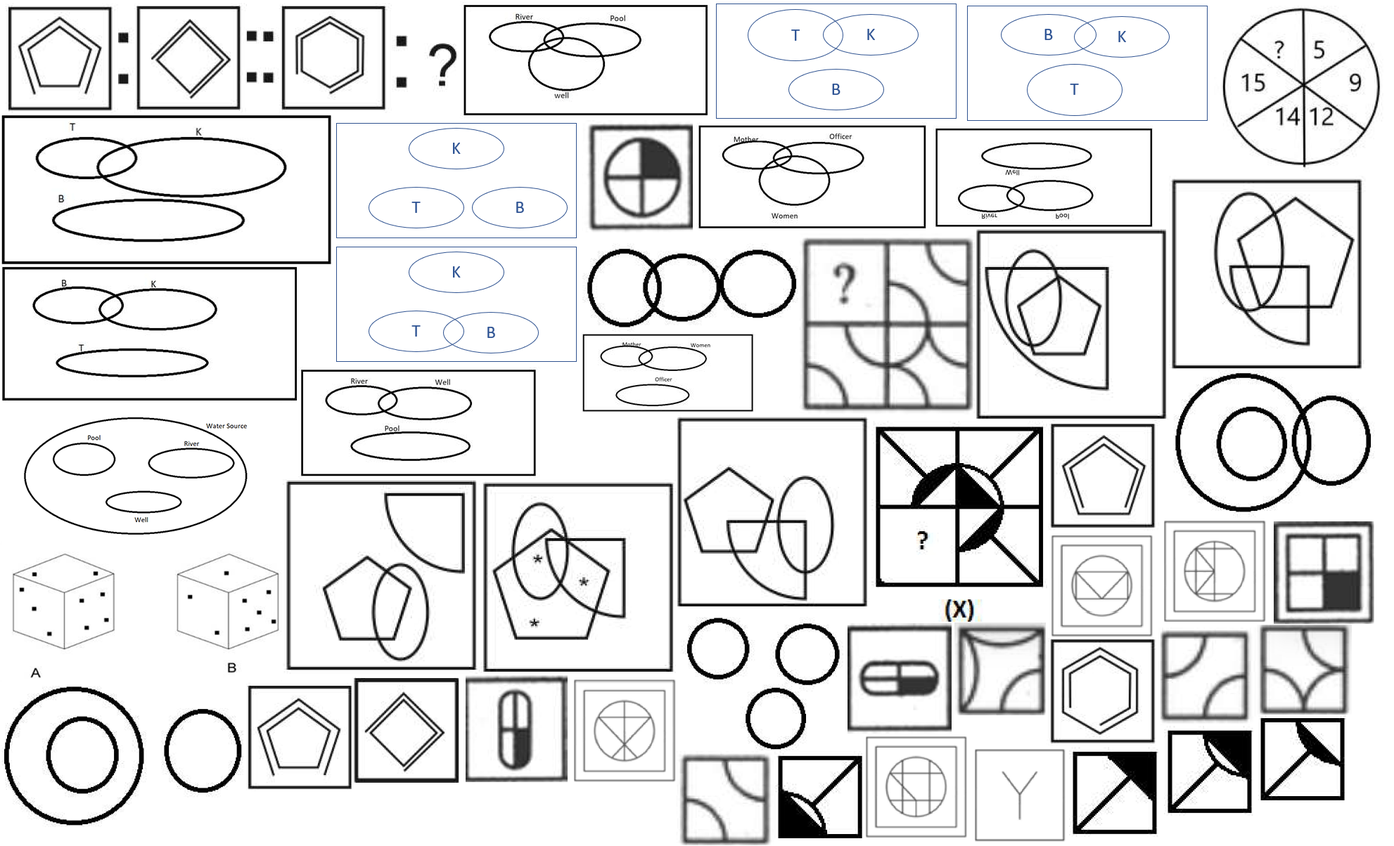
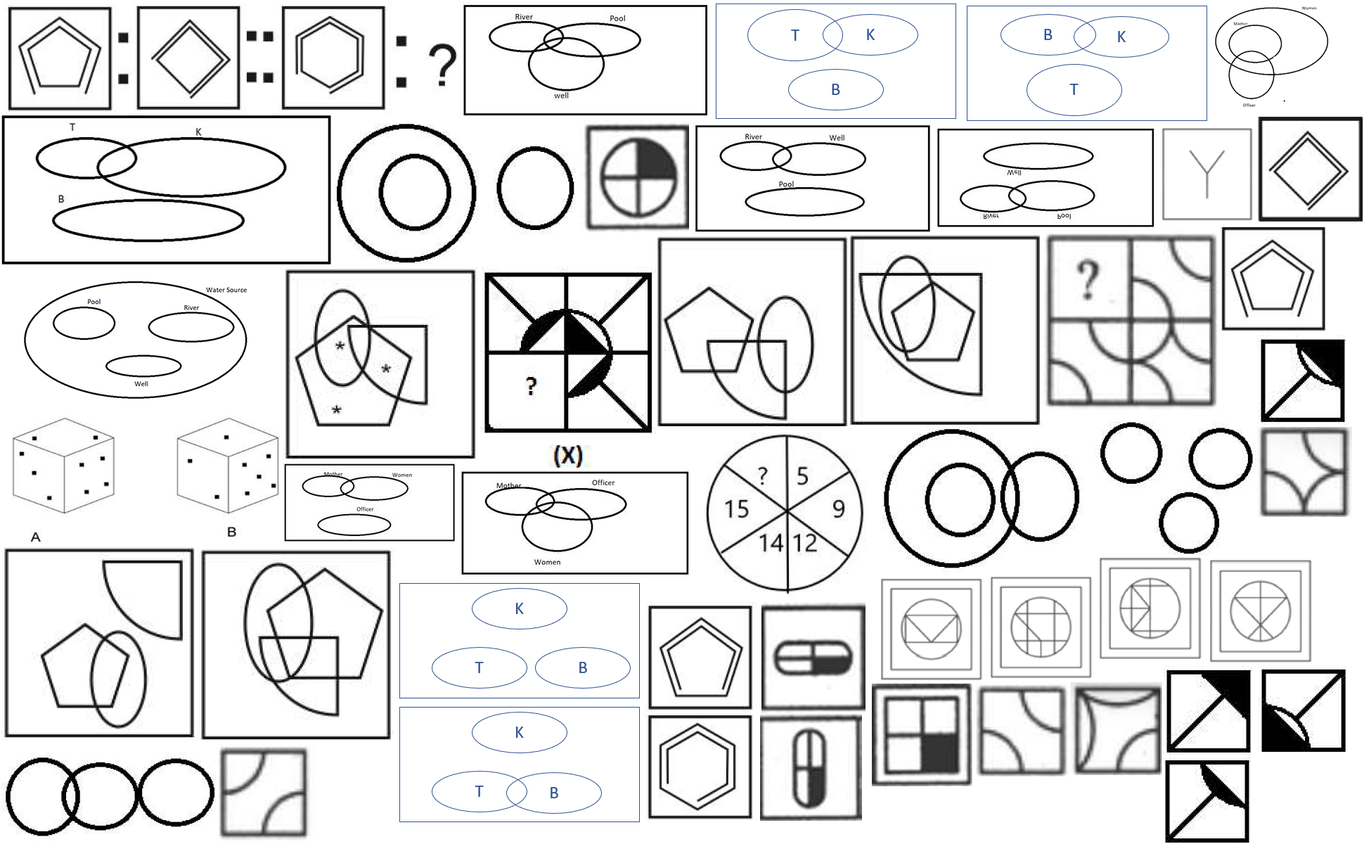
fixed.

diff --git a/img/others/afcat/prev/afcat24_feb_2023.css b/img/others/afcat/prev/afcat24_feb_2023.css
@@ -8,145 +8,145 @@ Responsive: <div class="yourspritesname"></div>
 
 
 .afcat_24_feb_2023_100 {max-width:251px; max-height:258px; }
-.afcat_24_feb_2023_100::after {content: '\00a0';display: inline-block; width:251px; height:258px; background-position: 65.6268053148469% 35.095137420718814%;background-size: 789.6414342629482% 466.6666666666667%;background-image: url(afcat24_feb_2023.png);padding: 0; }
+.afcat_24_feb_2023_100::after {content: '\00a0';display: inline-block; width:251px; height:258px; background-position: 87.80343398460627% 34.6072186836518%;background-size: 772.9083665338645% 465.1162790697674%;background-image: url(afcat24_feb_2023.png);padding: 0; }
 div.afcat_24_feb_2023_100::after {max-width:251px; width:100%;height:0;padding: 0 0 102.78884462151395% 0;}
 .afcat_24_feb_2023_100a {max-width:139px; max-height:143px; }
-.afcat_24_feb_2023_100a::after {content: '\00a0';display: inline-block; width:139px; height:143px; background-position: 89.36516549104721% 83.78887841658812%;background-size: 1425.8992805755395% 841.9580419580419%;background-image: url(afcat24_feb_2023.png);padding: 0; }
+.afcat_24_feb_2023_100a::after {content: '\00a0';display: inline-block; width:139px; height:143px; background-position: 17.157134925041643% 99.71617786187322%;background-size: 1395.68345323741% 839.1608391608391%;background-image: url(afcat24_feb_2023.png);padding: 0; }
 div.afcat_24_feb_2023_100a::after {max-width:139px; width:100%;height:0;padding: 0 0 102.87769784172662% 0;}
 .afcat_24_feb_2023_100b {max-width:138px; max-height:134px; }
-.afcat_24_feb_2023_100b::after {content: '\00a0';display: inline-block; width:138px; height:134px; background-position: 52.16919739696312% 99.90654205607477%;background-size: 1436.231884057971% 898.5074626865671%;background-image: url(afcat24_feb_2023.png);padding: 0; }
+.afcat_24_feb_2023_100b::after {content: '\00a0';display: inline-block; width:138px; height:134px; background-position: 76.80355160932298% 90.99437148217636%;background-size: 1405.7971014492753% 895.5223880597015%;background-image: url(afcat24_feb_2023.png);padding: 0; }
 div.afcat_24_feb_2023_100b::after {max-width:138px; width:100%;height:0;padding: 0 0 97.10144927536231% 0;}
 .afcat_24_feb_2023_100c {max-width:135px; max-height:128px; }
-.afcat_24_feb_2023_100c::after {content: '\00a0';display: inline-block; width:135px; height:128px; background-position: 96.7514889009204% 82.62081784386618%;background-size: 1468.148148148148% 940.625%;background-image: url(afcat24_feb_2023.png);padding: 0; }
+.afcat_24_feb_2023_100c::after {content: '\00a0';display: inline-block; width:135px; height:128px; background-position: 99.05817174515235% 56.62313432835821%;background-size: 1437.037037037037% 937.5%;background-image: url(afcat24_feb_2023.png);padding: 0; }
 div.afcat_24_feb_2023_100c::after {max-width:135px; width:100%;height:0;padding: 0 0 94.81481481481481% 0;}
 .afcat_24_feb_2023_100d {max-width:130px; max-height:132px; }
-.afcat_24_feb_2023_100d::after {content: '\00a0';display: inline-block; width:130px; height:132px; background-position: 73.27213822894169% 82.64925373134328%;background-size: 1524.6153846153845% 912.1212121212121%;background-image: url(afcat24_feb_2023.png);padding: 0; }
+.afcat_24_feb_2023_100d::after {content: '\00a0';display: inline-block; width:130px; height:132px; background-position: 84.14364640883979% 90.82397003745318%;background-size: 1492.3076923076924% 909.0909090909091%;background-image: url(afcat24_feb_2023.png);padding: 0; }
 div.afcat_24_feb_2023_100d::after {max-width:130px; width:100%;height:0;padding: 0 0 101.53846153846153% 0;}
 .afcat_24_feb_2023_80a {max-width:336px; max-height:157px; }
-.afcat_24_feb_2023_80a::after {content: '\00a0';display: inline-block; width:336px; height:157px; background-position: 60.14580801944107% 16.6189111747851%;background-size: 589.8809523809524% 766.8789808917197%;background-image: url(afcat24_feb_2023.png);padding: 0; }
+.afcat_24_feb_2023_80a::after {content: '\00a0';display: inline-block; width:336px; height:157px; background-position: 40.71072319201995% 63.854266538830295%;background-size: 577.3809523809524% 764.3312101910828%;background-image: url(afcat24_feb_2023.png);padding: 0; }
 div.afcat_24_feb_2023_80a::after {max-width:336px; width:100%;height:0;padding: 0 0 46.726190476190474% 0;}
 .afcat_24_feb_2023_80b {max-width:250px; max-height:114px; }
-.afcat_24_feb_2023_80b::after {content: '\00a0';display: inline-block; width:250px; height:114px; background-position: 47.6905311778291% 43.39449541284404%;background-size: 792.8% 1056.140350877193%;background-image: url(afcat24_feb_2023.png);padding: 0; }
+.afcat_24_feb_2023_80b::after {content: '\00a0';display: inline-block; width:250px; height:114px; background-position: 23.78698224852071% 60.49723756906077%;background-size: 776% 1052.6315789473683%;background-image: url(afcat24_feb_2023.png);padding: 0; }
 div.afcat_24_feb_2023_80b::after {max-width:250px; width:100%;height:0;padding: 0 0 45.6% 0;}
 .afcat_24_feb_2023_80c {max-width:472px; max-height:215px; }
-.afcat_24_feb_2023_80c::after {content: '\00a0';display: inline-block; width:472px; height:215px; background-position: 0.06622516556291391% 16.380182002022245%;background-size: 419.91525423728814% 560%;background-image: url(afcat24_feb_2023.png);padding: 0; }
+.afcat_24_feb_2023_80c::after {content: '\00a0';display: inline-block; width:472px; height:215px; background-position: 0.0681198910081744% 16.446700507614214%;background-size: 411.0169491525424% 558.1395348837209%;background-image: url(afcat24_feb_2023.png);padding: 0; }
 div.afcat_24_feb_2023_80c::after {max-width:472px; width:100%;height:0;padding: 0 0 45.55084745762712% 0;}
-.afcat_24_feb_2023_80d {max-width:422px; max-height:193px; }
-.afcat_24_feb_2023_80d::after {content: '\00a0';display: inline-block; width:422px; height:193px; background-position: 0.0641025641025641% 37.388724035608305%;background-size: 469.66824644549763% 623.8341968911917%;background-image: url(afcat24_feb_2023.png);padding: 0; }
-div.afcat_24_feb_2023_80d::after {max-width:422px; width:100%;height:0;padding: 0 0 45.7345971563981% 0;}
+.afcat_24_feb_2023_80d {max-width:204px; max-height:159px; }
+.afcat_24_feb_2023_80d::after {content: '\00a0';display: inline-block; width:204px; height:159px; background-position: 99.30875576036867% 0.09606147934678194%;background-size: 950.9803921568628% 754.7169811320755%;background-image: url(afcat24_feb_2023.png);padding: 0; }
+div.afcat_24_feb_2023_80d::after {max-width:204px; width:100%;height:0;padding: 0 0 77.94117647058823% 0;}
 .afcat_24_feb_2023_82a {max-width:400px; max-height:200px; }
-.afcat_24_feb_2023_82a::after {content: '\00a0';display: inline-block; width:400px; height:200px; background-position: 0.0632111251580278% 56.97211155378486%;background-size: 495.5% 602%;background-image: url(afcat24_feb_2023.png);padding: 0; }
+.afcat_24_feb_2023_82a::after {content: '\00a0';display: inline-block; width:400px; height:200px; background-position: 0.06493506493506493% 37.8%;background-size: 485% 600%;background-image: url(afcat24_feb_2023.png);padding: 0; }
 div.afcat_24_feb_2023_82a::after {max-width:400px; width:100%;height:0;padding: 0 0 50% 0;}
 .afcat_24_feb_2023_82b {max-width:317px; max-height:147px; }
-.afcat_24_feb_2023_82b::after {content: '\00a0';display: inline-block; width:317px; height:147px; background-position: 79.69969969969969% 16.84011352885525%;background-size: 625.2365930599369% 819.047619047619%;background-image: url(afcat24_feb_2023.png);padding: 0; }
+.afcat_24_feb_2023_82b::after {content: '\00a0';display: inline-block; width:317px; height:147px; background-position: 81.94701170671595% 16.904083570750238%;background-size: 611.9873817034701% 816.3265306122449%;background-image: url(afcat24_feb_2023.png);padding: 0; }
 div.afcat_24_feb_2023_82b::after {max-width:317px; width:100%;height:0;padding: 0 0 46.37223974763407% 0;}
 .afcat_24_feb_2023_82c {max-width:344px; max-height:159px; }
-.afcat_24_feb_2023_82c::after {content: '\00a0';display: inline-block; width:344px; height:159px; background-position: 25.885225885225886% 49.952153110047846%;background-size: 576.1627906976744% 757.2327044025158%;background-image: url(afcat24_feb_2023.png);padding: 0; }
+.afcat_24_feb_2023_82c::after {content: '\00a0';display: inline-block; width:344px; height:159px; background-position: 61.716791979949875% 16.714697406340058%;background-size: 563.953488372093% 754.7169811320755%;background-image: url(afcat24_feb_2023.png);padding: 0; }
 div.afcat_24_feb_2023_82c::after {max-width:344px; width:100%;height:0;padding: 0 0 46.22093023255814% 0;}
 .afcat_24_feb_2023_82d {max-width:357px; max-height:168px; }
-.afcat_24_feb_2023_82d::after {content: '\00a0';display: inline-block; width:357px; height:168px; background-position: 40.246153846153845% 0.09652509652509653%;background-size: 555.1820728291317% 716.6666666666666%;background-image: url(afcat24_feb_2023.png);padding: 0; }
+.afcat_24_feb_2023_82d::after {content: '\00a0';display: inline-block; width:357px; height:168px; background-position: 41.31396083385976% 0.09689922480620156%;background-size: 543.4173669467787% 714.2857142857143%;background-image: url(afcat24_feb_2023.png);padding: 0; }
 div.afcat_24_feb_2023_82d::after {max-width:357px; width:100%;height:0;padding: 0 0 47.05882352941177% 0;}
 .afcat_24_feb_2023_89 {max-width:400px; max-height:197px; }
-.afcat_24_feb_2023_89::after {content: '\00a0';display: inline-block; width:400px; height:197px; background-position: 0.0632111251580278% 76.76266137040714%;background-size: 495.5% 611.1675126903554%;background-image: url(afcat24_feb_2023.png);padding: 0; }
+.afcat_24_feb_2023_89::after {content: '\00a0';display: inline-block; width:400px; height:197px; background-position: 0.06493506493506493% 57.726819541375875%;background-size: 485% 609.1370558375635%;background-image: url(afcat24_feb_2023.png);padding: 0; }
 div.afcat_24_feb_2023_89::after {max-width:400px; width:100%;height:0;padding: 0 0 49.25% 0;}
 .afcat_24_feb_2023_91 {max-width:257px; max-height:248px; }
-.afcat_24_feb_2023_91::after {content: '\00a0';display: inline-block; width:257px; height:248px; background-position: 99.94202898550725% 0.10460251046025104%;background-size: 771.2062256809338% 485.48387096774195%;background-image: url(afcat24_feb_2023.png);padding: 0; }
+.afcat_24_feb_2023_91::after {content: '\00a0';display: inline-block; width:257px; height:248px; background-position: 58.8235294117647% 63.760504201680675%;background-size: 754.863813229572% 483.8709677419355%;background-image: url(afcat24_feb_2023.png);padding: 0; }
 div.afcat_24_feb_2023_91::after {max-width:257px; width:100%;height:0;padding: 0 0 96.49805447470817% 0;}
 .afcat_24_feb_2023_92a {max-width:353px; max-height:175px; }
-.afcat_24_feb_2023_92a::after {content: '\00a0';display: inline-block; width:353px; height:175px; background-position: 29.097605893186003% 16.52089407191448%;background-size: 561.4730878186969% 688%;background-image: url(afcat24_feb_2023.png);padding: 0; }
+.afcat_24_feb_2023_92a::after {content: '\00a0';display: inline-block; width:353px; height:175px; background-position: 35.53875236294896% 80.39024390243902%;background-size: 549.5750708215297% 685.7142857142857%;background-image: url(afcat24_feb_2023.png);padding: 0; }
 div.afcat_24_feb_2023_92a::after {max-width:353px; width:100%;height:0;padding: 0 0 49.57507082152974% 0;}
 .afcat_24_feb_2023_92b {max-width:351px; max-height:175px; }
-.afcat_24_feb_2023_92b::after {content: '\00a0';display: inline-block; width:351px; height:175px; background-position: 29.061925199264255% 33.624878522837705%;background-size: 564.6723646723647% 688%;background-image: url(afcat24_feb_2023.png);padding: 0; }
+.afcat_24_feb_2023_92b::after {content: '\00a0';display: inline-block; width:351px; height:175px; background-position: 35.4940213971051% 97.5609756097561%;background-size: 552.7065527065527% 685.7142857142857%;background-image: url(afcat24_feb_2023.png);padding: 0; }
 div.afcat_24_feb_2023_92b::after {max-width:351px; width:100%;height:0;padding: 0 0 49.857549857549856% 0;}
 .afcat_24_feb_2023_92c {max-width:355px; max-height:172px; }
-.afcat_24_feb_2023_92c::after {content: '\00a0';display: inline-block; width:355px; height:172px; background-position: 62.20036877688998% 0.09689922480620156%;background-size: 558.3098591549295% 700%;background-image: url(afcat24_feb_2023.png);padding: 0; }
+.afcat_24_feb_2023_92c::after {content: '\00a0';display: inline-block; width:355px; height:172px; background-position: 63.84858044164038% 0.09727626459143969%;background-size: 546.4788732394367% 697.6744186046511%;background-image: url(afcat24_feb_2023.png);padding: 0; }
 div.afcat_24_feb_2023_92c::after {max-width:355px; width:100%;height:0;padding: 0 0 48.45070422535211% 0;}
 .afcat_24_feb_2023_92d {max-width:355px; max-height:176px; }
-.afcat_24_feb_2023_92d::after {content: '\00a0';display: inline-block; width:355px; height:176px; background-position: 84.08113091579594% 0.09727626459143969%;background-size: 558.3098591549295% 684.0909090909091%;background-image: url(afcat24_feb_2023.png);padding: 0; }
+.afcat_24_feb_2023_92d::after {content: '\00a0';display: inline-block; width:355px; height:176px; background-position: 86.30914826498423% 0.09765625%;background-size: 546.4788732394367% 681.8181818181819%;background-image: url(afcat24_feb_2023.png);padding: 0; }
 div.afcat_24_feb_2023_92d::after {max-width:355px; width:100%;height:0;padding: 0 0 49.57746478873239% 0;}
 .afcat_24_feb_2023_94a {max-width:307px; max-height:140px; }
-.afcat_24_feb_2023_94a::after {content: '\00a0';display: inline-block; width:307px; height:140px; background-position: 49.43283582089552% 31.203007518796994%;background-size: 645.6026058631921% 860%;background-image: url(afcat24_feb_2023.png);padding: 0; }
+.afcat_24_feb_2023_94a::after {content: '\00a0';display: inline-block; width:307px; height:140px; background-position: 0.0612369871402327% 99.52830188679245%;background-size: 631.9218241042345% 857.1428571428571%;background-image: url(afcat24_feb_2023.png);padding: 0; }
 div.afcat_24_feb_2023_94a::after {max-width:307px; width:100%;height:0;padding: 0 0 45.60260586319218% 0;}
 .afcat_24_feb_2023_94b {max-width:301px; max-height:210px; }
-.afcat_24_feb_2023_94b::after {content: '\00a0';display: inline-block; width:301px; height:210px; background-position: 98.86972040452112% 53.01810865191147%;background-size: 658.4717607973422% 573.3333333333334%;background-image: url(afcat24_feb_2023.png);padding: 0; }
+.afcat_24_feb_2023_94b::after {content: '\00a0';display: inline-block; width:301px; height:210px; background-position: 76.14399023794996% 61.21212121212121%;background-size: 644.5182724252492% 571.4285714285714%;background-image: url(afcat24_feb_2023.png);padding: 0; }
 div.afcat_24_feb_2023_94b::after {max-width:301px; width:100%;height:0;padding: 0 0 69.76744186046511% 0;}
 .afcat_24_feb_2023_94c {max-width:348px; max-height:207px; }
-.afcat_24_feb_2023_94c::after {content: '\00a0';display: inline-block; width:348px; height:207px; background-position: 0.06119951040391677% 97.39217652958877%;background-size: 569.5402298850574% 581.6425120772947%;background-image: url(afcat24_feb_2023.png);padding: 0; }
+.afcat_24_feb_2023_94c::after {content: '\00a0';display: inline-block; width:348px; height:207px; background-position: 29.77386934673367% 17.119838872104733%;background-size: 557.471264367816% 579.7101449275362%;background-image: url(afcat24_feb_2023.png);padding: 0; }
 div.afcat_24_feb_2023_94c::after {max-width:348px; width:100%;height:0;padding: 0 0 59.48275862068966% 0;}
 .afcat_24_feb_2023_94d {max-width:237px; max-height:204px; }
-.afcat_24_feb_2023_94d::after {content: '\00a0';display: inline-block; width:237px; height:204px; background-position: 55.12893982808023% 86.4%;background-size: 836.2869198312236% 590.1960784313726%;background-image: url(afcat24_feb_2023.png);padding: 0; }
+.afcat_24_feb_2023_94d::after {content: '\00a0';display: inline-block; width:237px; height:204px; background-position: 91.015854374633% 58.734939759036145%;background-size: 818.5654008438819% 588.2352941176471%;background-image: url(afcat24_feb_2023.png);padding: 0; }
 div.afcat_24_feb_2023_94d::after {max-width:237px; width:100%;height:0;padding: 0 0 86.07594936708861% 0;}
 .afcat_24_feb_2023_95 {max-width:278px; max-height:278px; }
-.afcat_24_feb_2023_95::after {content: '\00a0';display: inline-block; width:278px; height:278px; background-position: 40.082159624413144% 73.65010799136068%;background-size: 712.9496402877697% 433.0935251798561%;background-image: url(afcat24_feb_2023.png);padding: 0; }
+.afcat_24_feb_2023_95::after {content: '\00a0';display: inline-block; width:278px; height:278px; background-position: 24.187725631768952% 40.99783080260303%;background-size: 697.841726618705% 431.6546762589928%;background-image: url(afcat24_feb_2023.png);padding: 0; }
 div.afcat_24_feb_2023_95::after {max-width:278px; width:100%;height:0;padding: 0 0 100% 0;}
 .afcat_24_feb_2023_95a {max-width:273px; max-height:271px; }
-.afcat_24_feb_2023_95a::after {content: '\00a0';display: inline-block; width:273px; height:271px; background-position: 81.21708601521358% 34.941050375133976%;background-size: 726.007326007326% 444.28044280442805%;background-image: url(afcat24_feb_2023.png);padding: 0; }
+.afcat_24_feb_2023_95a::after {content: '\00a0';display: inline-block; width:273px; height:271px; background-position: 72.5254949010198% 35.952637244348765%;background-size: 710.6227106227107% 442.8044280442804%;background-image: url(afcat24_feb_2023.png);padding: 0; }
 div.afcat_24_feb_2023_95a::after {max-width:273px; width:100%;height:0;padding: 0 0 99.26739926739927% 0;}
 .afcat_24_feb_2023_95b {max-width:280px; max-height:277px; }
-.afcat_24_feb_2023_95b::after {content: '\00a0';display: inline-block; width:280px; height:277px; background-position: 23.6192714453584% 73.57065803667746%;background-size: 707.8571428571429% 434.6570397111913%;background-image: url(afcat24_feb_2023.png);padding: 0; }
+.afcat_24_feb_2023_95b::after {content: '\00a0';display: inline-block; width:280px; height:277px; background-position: 0.060240963855421686% 84.18201516793066%;background-size: 692.8571428571429% 433.2129963898917%;background-image: url(afcat24_feb_2023.png);padding: 0; }
 div.afcat_24_feb_2023_95b::after {max-width:280px; width:100%;height:0;padding: 0 0 98.92857142857143% 0;}
 .afcat_24_feb_2023_95c {max-width:281px; max-height:276px; }
-.afcat_24_feb_2023_95c::after {content: '\00a0';display: inline-block; width:281px; height:276px; background-position: 97.70723104056438% 26.939655172413794%;background-size: 705.3380782918149% 436.231884057971%;background-image: url(afcat24_feb_2023.png);padding: 0; }
+.afcat_24_feb_2023_95c::after {content: '\00a0';display: inline-block; width:281px; height:276px; background-position: 16.998191681735985% 84.0909090909091%;background-size: 690.3914590747331% 434.7826086956522%;background-image: url(afcat24_feb_2023.png);padding: 0; }
 div.afcat_24_feb_2023_95c::after {max-width:281px; width:100%;height:0;padding: 0 0 98.22064056939502% 0;}
 .afcat_24_feb_2023_95d {max-width:274px; max-height:272px; }
-.afcat_24_feb_2023_95d::after {content: '\00a0';display: inline-block; width:274px; height:272px; background-position: 56.323185011709604% 63.412017167381975%;background-size: 723.3576642335767% 442.6470588235294%;background-image: url(afcat24_feb_2023.png);padding: 0; }
+.afcat_24_feb_2023_95d::after {content: '\00a0';display: inline-block; width:274px; height:272px; background-position: 56.062424969987994% 35.991379310344826%;background-size: 708.029197080292% 441.1764705882353%;background-image: url(afcat24_feb_2023.png);padding: 0; }
 div.afcat_24_feb_2023_95d::after {max-width:274px; width:100%;height:0;padding: 0 0 99.27007299270073% 0;}
 .afcat_24_feb_2023_96 {max-width:138px; max-height:139px; }
-.afcat_24_feb_2023_96::after {content: '\00a0';display: inline-block; width:138px; height:139px; background-position: 74.89154013015184% 99.71830985915493%;background-size: 1436.231884057971% 866.1870503597122%;background-image: url(afcat24_feb_2023.png);padding: 0; }
+.afcat_24_feb_2023_96::after {content: '\00a0';display: inline-block; width:138px; height:139px; background-position: 91.45394006659268% 16.776625824693685%;background-size: 1405.7971014492753% 863.3093525179856%;background-image: url(afcat24_feb_2023.png);padding: 0; }
 div.afcat_24_feb_2023_96::after {max-width:138px; width:100%;height:0;padding: 0 0 100.72463768115942% 0;}
 .afcat_24_feb_2023_96a {max-width:153px; max-height:152px; }
-.afcat_24_feb_2023_96a::after {content: '\00a0';display: inline-block; width:153px; height:152px; background-position: 67.08583925642428% 99.33460076045627%;background-size: 1295.424836601307% 792.1052631578947%;background-image: url(afcat24_feb_2023.png);padding: 0; }
+.afcat_24_feb_2023_96a::after {content: '\00a0';display: inline-block; width:153px; height:152px; background-position: 78.62339115836598% 77.95801526717557%;background-size: 1267.9738562091504% 789.4736842105264%;background-image: url(afcat24_feb_2023.png);padding: 0; }
 div.afcat_24_feb_2023_96a::after {max-width:153px; width:100%;height:0;padding: 0 0 99.34640522875817% 0;}
 .afcat_24_feb_2023_96b {max-width:156px; max-height:150px; }
-.afcat_24_feb_2023_96b::after {content: '\00a0';display: inline-block; width:156px; height:150px; background-position: 81.59912376779846% 71.72675521821633%;background-size: 1270.5128205128206% 802.6666666666666%;background-image: url(afcat24_feb_2023.png);padding: 0; }
+.afcat_24_feb_2023_96b::after {content: '\00a0';display: inline-block; width:156px; height:150px; background-position: 69.95515695067265% 77.80952380952381%;background-size: 1243.5897435897436% 800%;background-image: url(afcat24_feb_2023.png);padding: 0; }
 div.afcat_24_feb_2023_96b::after {max-width:156px; width:100%;height:0;padding: 0 0 96.15384615384616% 0;}
 .afcat_24_feb_2023_96c {max-width:155px; max-height:150px; }
-.afcat_24_feb_2023_96c::after {content: '\00a0';display: inline-block; width:155px; height:150px; background-position: 90.311986863711% 70.01897533206831%;background-size: 1278.7096774193549% 802.6666666666666%;background-image: url(afcat24_feb_2023.png);padding: 0; }
+.afcat_24_feb_2023_96c::after {content: '\00a0';display: inline-block; width:155px; height:150px; background-position: 87.3389355742297% 75.23809523809524%;background-size: 1251.6129032258063% 800%;background-image: url(afcat24_feb_2023.png);padding: 0; }
 div.afcat_24_feb_2023_96c::after {max-width:155px; width:100%;height:0;padding: 0 0 96.7741935483871% 0;}
 .afcat_24_feb_2023_96d {max-width:151px; max-height:154px; }
-.afcat_24_feb_2023_96d::after {content: '\00a0';display: inline-block; width:151px; height:154px; background-position: 44.238121245221194% 91.52380952380952%;background-size: 1312.5827814569536% 781.8181818181819%;background-image: url(afcat24_feb_2023.png);padding: 0; }
+.afcat_24_feb_2023_96d::after {content: '\00a0';display: inline-block; width:151px; height:154px; background-position: 95.86361095584125% 75.52581261950287%;background-size: 1284.76821192053% 779.2207792207793%;background-image: url(afcat24_feb_2023.png);padding: 0; }
 div.afcat_24_feb_2023_96d::after {max-width:151px; width:100%;height:0;padding: 0 0 101.98675496688742% 0;}
 .afcat_24_feb_2023_97 {max-width:652px; max-height:160px; }
-.afcat_24_feb_2023_97::after {content: '\00a0';display: inline-block; width:652px; height:160px; background-position: 0.07518796992481203% 0.09578544061302682%;background-size: 303.9877300613497% 752.5%;background-image: url(afcat24_feb_2023.png);padding: 0; }
+.afcat_24_feb_2023_97::after {content: '\00a0';display: inline-block; width:652px; height:160px; background-position: 0.07763975155279502% 0.09615384615384616%;background-size: 297.5460122699387% 750%;background-image: url(afcat24_feb_2023.png);padding: 0; }
 div.afcat_24_feb_2023_97::after {max-width:652px; width:100%;height:0;padding: 0 0 24.539877300613497% 0;}
 .afcat_24_feb_2023_97a {max-width:159px; max-height:157px; }
-.afcat_24_feb_2023_97a::after {content: '\00a0';display: inline-block; width:159px; height:157px; background-position: 81.73340647284695% 57.11556829035339%;background-size: 1246.5408805031448% 766.8789808917197%;background-image: url(afcat24_feb_2023.png);padding: 0; }
+.afcat_24_feb_2023_97a::after {content: '\00a0';display: inline-block; width:159px; height:157px; background-position: 51.54407636159461% 82.07094918504315%;background-size: 1220.125786163522% 764.3312101910828%;background-image: url(afcat24_feb_2023.png);padding: 0; }
 div.afcat_24_feb_2023_97a::after {max-width:159px; width:100%;height:0;padding: 0 0 98.74213836477988% 0;}
 .afcat_24_feb_2023_97b {max-width:152px; max-height:156px; }
-.afcat_24_feb_2023_97b::after {content: '\00a0';display: inline-block; width:152px; height:156px; background-position: 27.37704918032787% 91.6030534351145%;background-size: 1303.9473684210527% 771.7948717948718%;background-image: url(afcat24_feb_2023.png);padding: 0; }
+.afcat_24_feb_2023_97b::after {content: '\00a0';display: inline-block; width:152px; height:156px; background-position: 99.9440715883669% 15.421455938697317%;background-size: 1276.3157894736842% 769.2307692307693%;background-image: url(afcat24_feb_2023.png);padding: 0; }
 div.afcat_24_feb_2023_97b::after {max-width:152px; width:100%;height:0;padding: 0 0 102.63157894736842% 0;}
 .afcat_24_feb_2023_97c {max-width:156px; max-height:154px; }
-.afcat_24_feb_2023_97c::after {content: '\00a0';display: inline-block; width:156px; height:154px; background-position: 81.4895947426068% 86.38095238095238%;background-size: 1270.5128205128206% 781.8181818181819%;background-image: url(afcat24_feb_2023.png);padding: 0; }
+.afcat_24_feb_2023_97c::after {content: '\00a0';display: inline-block; width:156px; height:154px; background-position: 51.34529147982063% 96.94072657743786%;background-size: 1243.5897435897436% 779.2207792207793%;background-image: url(afcat24_feb_2023.png);padding: 0; }
 div.afcat_24_feb_2023_97c::after {max-width:156px; width:100%;height:0;padding: 0 0 98.71794871794872% 0;}
 .afcat_24_feb_2023_97d {max-width:150px; max-height:157px; }
-.afcat_24_feb_2023_97d::after {content: '\00a0';display: inline-block; width:150px; height:157px; background-position: 19.104803493449783% 92.74116523400191%;background-size: 1321.3333333333333% 766.8789808917197%;background-image: url(afcat24_feb_2023.png);padding: 0; }
+.afcat_24_feb_2023_97d::after {content: '\00a0';display: inline-block; width:150px; height:157px; background-position: 96.92737430167598% 30.488974113135185%;background-size: 1293.3333333333333% 764.3312101910828%;background-image: url(afcat24_feb_2023.png);padding: 0; }
 div.afcat_24_feb_2023_97d::after {max-width:150px; width:100%;height:0;padding: 0 0 104.66666666666667% 0;}
 .afcat_24_feb_2023_98a {max-width:161px; max-height:161px; }
-.afcat_24_feb_2023_98a::after {content: '\00a0';display: inline-block; width:161px; height:161px; background-position: 45.46952224052718% 16.299137104506233%;background-size: 1231.055900621118% 747.8260869565217%;background-image: url(afcat24_feb_2023.png);padding: 0; }
+.afcat_24_feb_2023_98a::after {content: '\00a0';display: inline-block; width:161px; height:161px; background-position: 46.2619449128724% 16.361886429258902%;background-size: 1204.9689440993789% 745.3416149068323%;background-image: url(afcat24_feb_2023.png);padding: 0; }
 div.afcat_24_feb_2023_98a::after {max-width:161px; width:100%;height:0;padding: 0 0 100% 0;}
 .afcat_24_feb_2023_98b {max-width:156px; max-height:158px; }
-.afcat_24_feb_2023_98b::after {content: '\00a0';display: inline-block; width:156px; height:158px; background-position: 65.71741511500548% 84.70363288718929%;background-size: 1270.5128205128206% 762.0253164556962%;background-image: url(afcat24_feb_2023.png);padding: 0; }
+.afcat_24_feb_2023_98b::after {content: '\00a0';display: inline-block; width:156px; height:158px; background-position: 60.426008968609864% 82.14971209213051%;background-size: 1243.5897435897436% 759.493670886076%;background-image: url(afcat24_feb_2023.png);padding: 0; }
 div.afcat_24_feb_2023_98b::after {max-width:156px; width:100%;height:0;padding: 0 0 101.28205128205128% 0;}
 .afcat_24_feb_2023_98c {max-width:155px; max-height:152px; }
-.afcat_24_feb_2023_98c::after {content: '\00a0';display: inline-block; width:155px; height:152px; background-position: 35.79638752052545% 91.34980988593156%;background-size: 1278.7096774193549% 792.1052631578947%;background-image: url(afcat24_feb_2023.png);padding: 0; }
+.afcat_24_feb_2023_98c::after {content: '\00a0';display: inline-block; width:155px; height:152px; background-position: 60.11204481792717% 96.85114503816794%;background-size: 1251.6129032258063% 789.4736842105264%;background-image: url(afcat24_feb_2023.png);padding: 0; }
 div.afcat_24_feb_2023_98c::after {max-width:155px; width:100%;height:0;padding: 0 0 98.06451612903226% 0;}
 .afcat_24_feb_2023_98d {max-width:148px; max-height:150px; }
-.afcat_24_feb_2023_98d::after {content: '\00a0';display: inline-block; width:148px; height:150px; background-position: 98.47328244274809% 70.01897533206831%;background-size: 1339.1891891891892% 802.6666666666666%;background-image: url(afcat24_feb_2023.png);padding: 0; }
+.afcat_24_feb_2023_98d::after {content: '\00a0';display: inline-block; width:148px; height:150px; background-position: 68.91741071428571% 92.19047619047619%;background-size: 1310.8108108108108% 800%;background-image: url(afcat24_feb_2023.png);padding: 0; }
 div.afcat_24_feb_2023_98d::after {max-width:148px; width:100%;height:0;padding: 0 0 101.35135135135135% 0;}
 .afcat_24_feb_2023_99 {max-width:252px; max-height:287px; }
-.afcat_24_feb_2023_99::after {content: '\00a0';display: inline-block; width:252px; height:287px; background-position: 71.5028901734104% 65.21264994547437%;background-size: 786.5079365079365% 419.5121951219512%;background-image: url(afcat24_feb_2023.png);padding: 0; }
+.afcat_24_feb_2023_99::after {content: '\00a0';display: inline-block; width:252px; height:287px; background-position: 40.343601895734594% 41.40197152245345%;background-size: 769.8412698412699% 418.1184668989547%;background-image: url(afcat24_feb_2023.png);padding: 0; }
 div.afcat_24_feb_2023_99::after {max-width:252px; width:100%;height:0;padding: 0 0 113.88888888888889% 0;}
 .afcat_24_feb_2023_99a {max-width:134px; max-height:131px; }
-.afcat_24_feb_2023_99a::after {content: '\00a0';display: inline-block; width:134px; height:131px; background-position: 82.25108225108225% 98.97483690587138%;background-size: 1479.1044776119404% 919.0839694656488%;background-image: url(afcat24_feb_2023.png);padding: 0; }
+.afcat_24_feb_2023_99a::after {content: '\00a0';display: inline-block; width:134px; height:131px; background-position: 91.58361018826135% 88.40037418147801%;background-size: 1447.7611940298507% 916.0305343511451%;background-image: url(afcat24_feb_2023.png);padding: 0; }
 div.afcat_24_feb_2023_99a::after {max-width:134px; width:100%;height:0;padding: 0 0 97.76119402985074% 0;}
 .afcat_24_feb_2023_99b {max-width:133px; max-height:130px; }
-.afcat_24_feb_2023_99b::after {content: '\00a0';display: inline-block; width:133px; height:130px; background-position: 89.50784207679827% 96.18249534450652%;background-size: 1490.2255639097743% 926.1538461538462%;background-image: url(afcat24_feb_2023.png);padding: 0; }
+.afcat_24_feb_2023_99b::after {content: '\00a0';display: inline-block; width:133px; height:130px; background-position: 98.94853348090759% 44.48598130841121%;background-size: 1458.6466165413533% 923.0769230769231%;background-image: url(afcat24_feb_2023.png);padding: 0; }
 div.afcat_24_feb_2023_99b::after {max-width:133px; width:100%;height:0;padding: 0 0 97.74436090225564% 0;}
 .afcat_24_feb_2023_99c {max-width:127px; max-height:122px; }
-.afcat_24_feb_2023_99c::after {content: '\00a0';display: inline-block; width:127px; height:122px; background-position: 96.44204851752022% 94.08502772643253%;background-size: 1560.6299212598426% 986.8852459016393%;background-image: url(afcat24_feb_2023.png);padding: 0; }
+.afcat_24_feb_2023_99c::after {content: '\00a0';display: inline-block; width:127px; height:122px; background-position: 91.2300055157198% 99.90723562152134%;background-size: 1527.5590551181103% 983.6065573770492%;background-image: url(afcat24_feb_2023.png);padding: 0; }
 div.afcat_24_feb_2023_99c::after {max-width:127px; width:100%;height:0;padding: 0 0 96.06299212598425% 0;}
 .afcat_24_feb_2023_99d {max-width:125px; max-height:132px; }
-.afcat_24_feb_2023_99d::after {content: '\00a0';display: inline-block; width:125px; height:132px; background-position: 59.289176090468494% 99.72014925373135%;background-size: 1585.6% 912.1212121212121%;background-image: url(afcat24_feb_2023.png);padding: 0; }
+.afcat_24_feb_2023_99d::after {content: '\00a0';display: inline-block; width:125px; height:132px; background-position: 98.56749311294766% 88.48314606741573%;background-size: 1552% 909.0909090909091%;background-image: url(afcat24_feb_2023.png);padding: 0; }
 div.afcat_24_feb_2023_99d::after {max-width:125px; width:100%;height:0;padding: 0 0 105.6% 0;}
 
-/* $TexturePacker:SmartUpdate:8eae9bc6eb6c31729df258b49cb672b1:5295d0e662eaca4c9fe6fd3e74cd1f77:51a381b488d5a9daf14c9d0a6acb61f7$ */
+/* $TexturePacker:SmartUpdate:e779f07a6cd5c1580f4e907757d97ced:f9041279c0c29da3406a063ffe7ec800:51a381b488d5a9daf14c9d0a6acb61f7$ */
